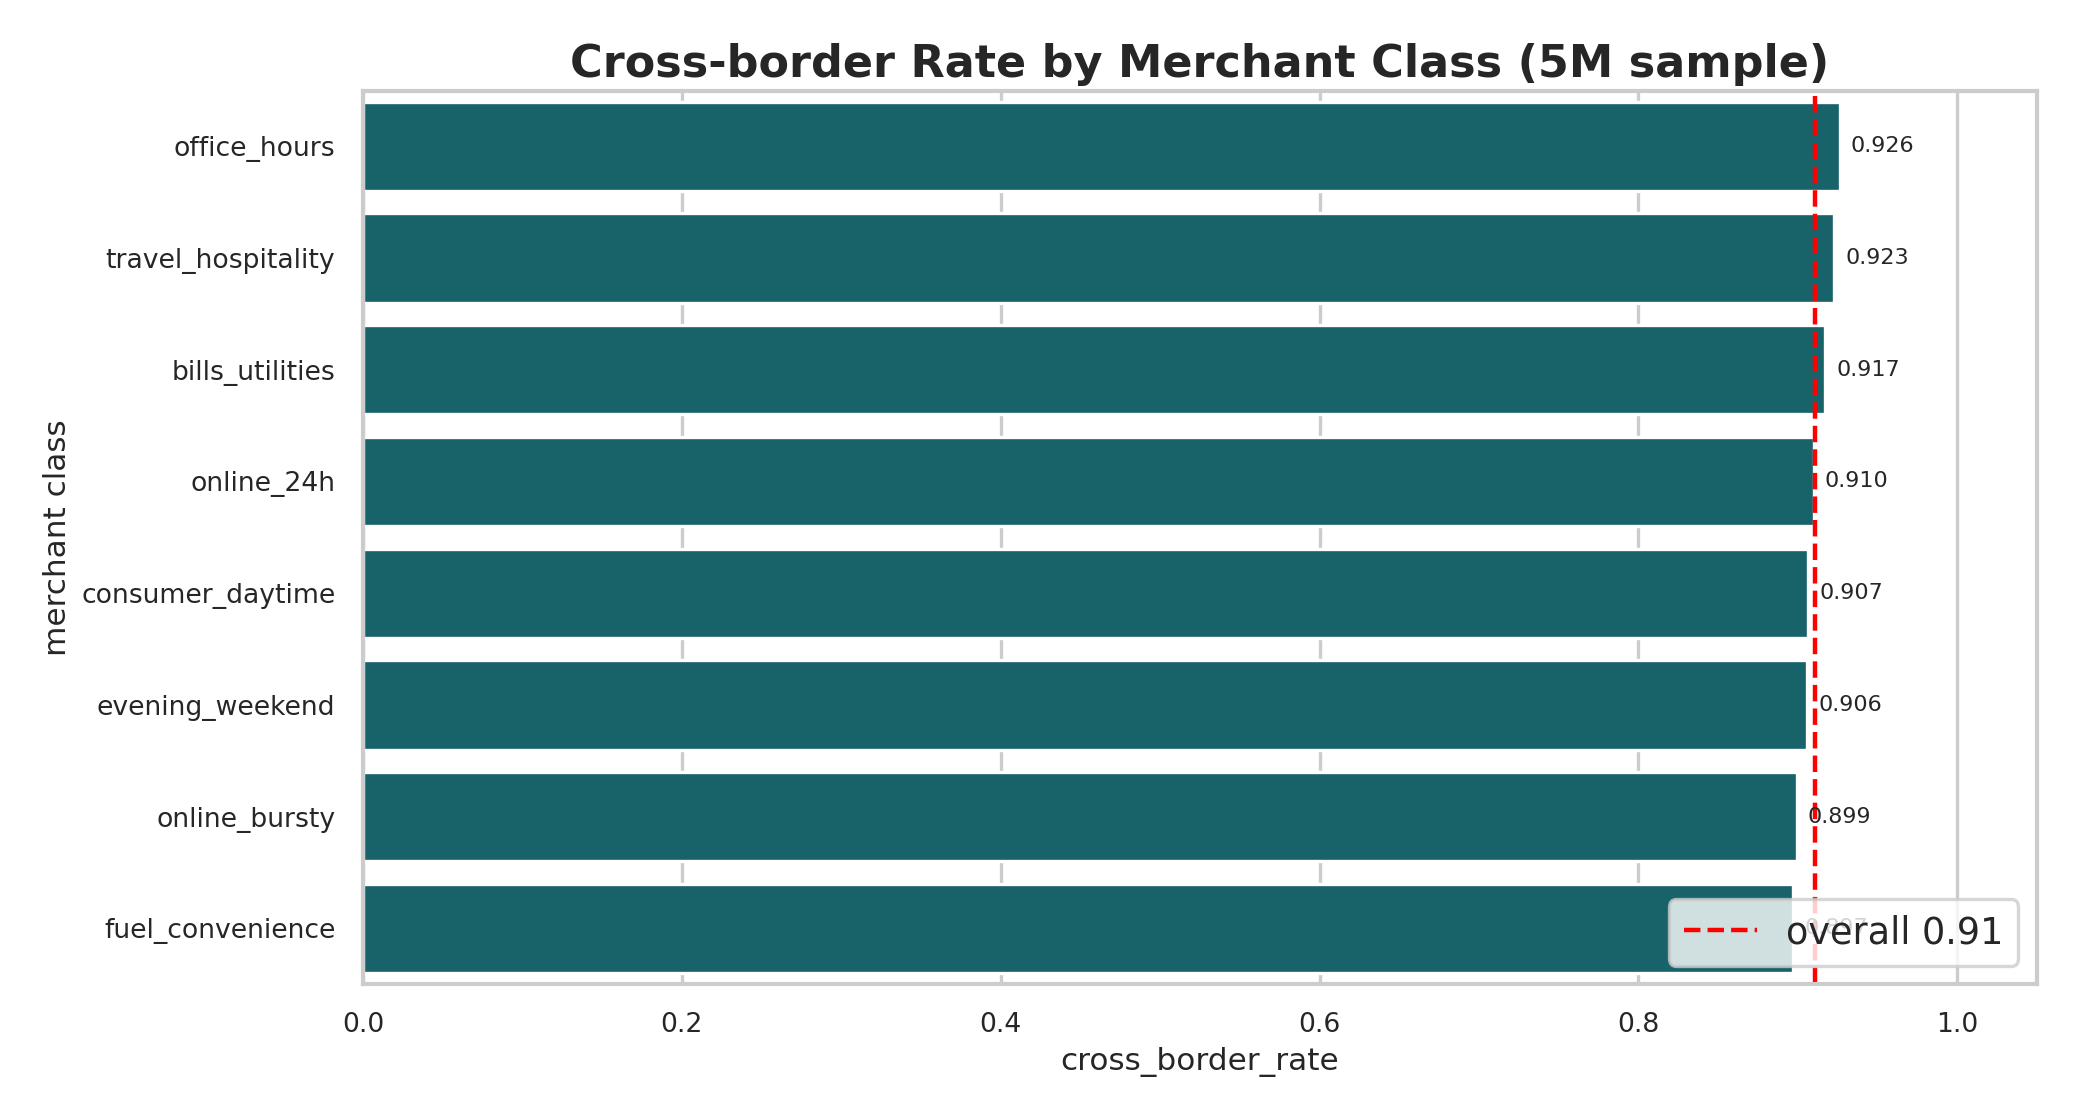
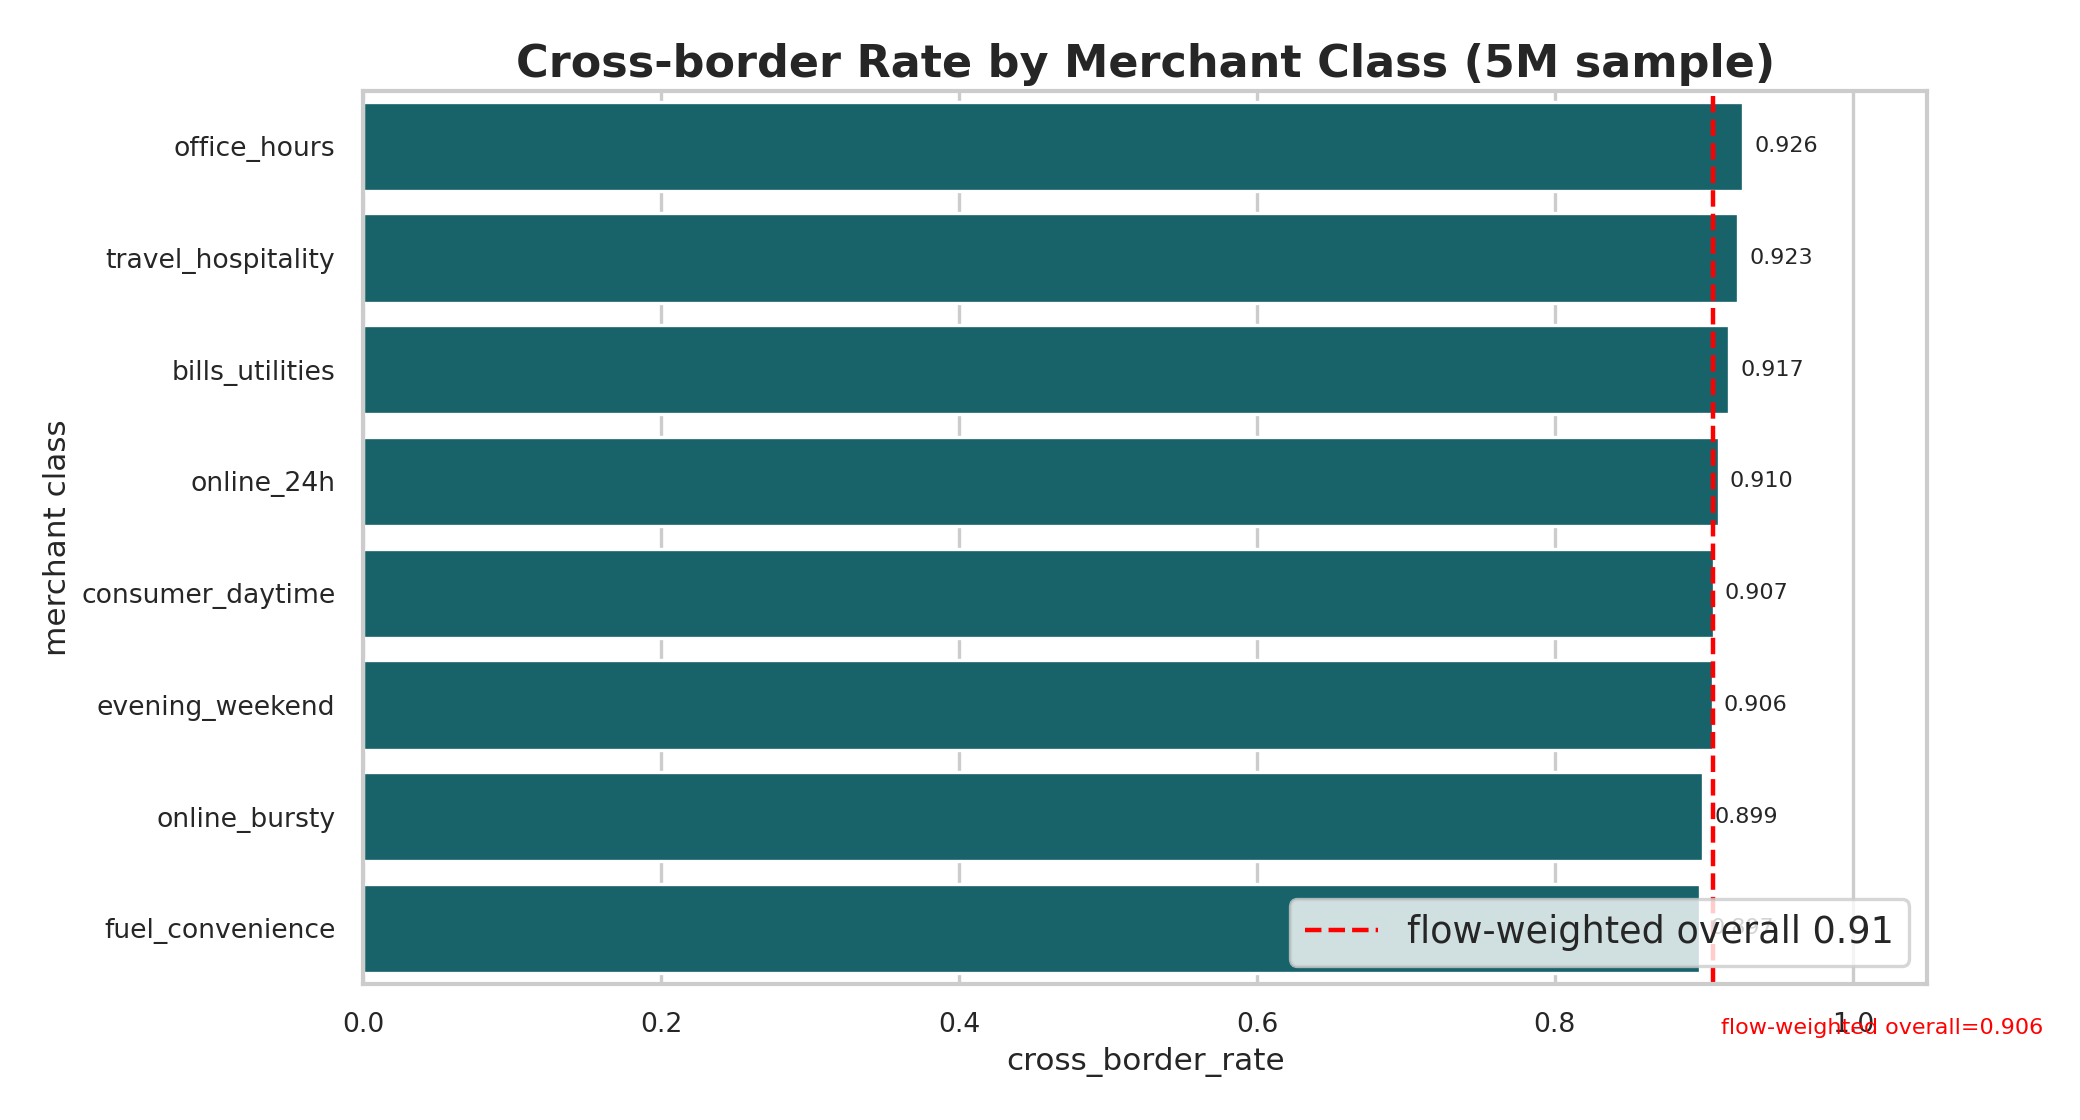
Refactor cross-border rate calculations and update report terminology for clarity

diff --git a/docs/reports/reports/eda/segment_6B/plot_segment_6B_uniform_all.py b/docs/reports/reports/eda/segment_6B/plot_segment_6B_uniform_all.py
@@ -299,7 +299,7 @@ def plot_06_lorenz(cx: duckdb.DuckDBPyConnection) -> None:
         vals = np.array([0.0])
     cum_y = np.concatenate([[0.0], np.cumsum(vals) / np.sum(vals)])
     cum_x = np.linspace(0, 1, len(cum_y))
-    gini = 1 - 2 * np.trapz(cum_y, cum_x)
+    gini = 1 - 2 * np.trapezoid(cum_y, cum_x)
 
     plt.figure(figsize=(8.5, 8.5))
     plt.plot(cum_x, cum_y, color="#3E6FB0", linewidth=3, label="Fraud per merchant")
@@ -466,21 +466,30 @@ def plot_10_cross_border(cx: duckdb.DuckDBPyConnection) -> None:
         AND m.merchant_country IS NOT NULL
         AND c.primary_demand_class IS NOT NULL
     )
-    SELECT primary_demand_class, avg(is_cross_border) AS cross_border_rate
+    SELECT primary_demand_class, count(*) AS n, avg(is_cross_border) AS cross_border_rate
     FROM joined
     GROUP BY 1
     ORDER BY cross_border_rate DESC
     """
     df = cx.execute(q).fetchdf()
-    overall = float(df["cross_border_rate"].mean())
+    overall = float((df["cross_border_rate"] * df["n"]).sum() / df["n"].sum())
 
     plt.figure(figsize=(13, 7))
     ax = sns.barplot(data=df, y="primary_demand_class", x="cross_border_rate", color="#0B6E77")
-    ax.axvline(overall, color="red", linestyle="--", linewidth=2, label=f"overall {overall:.2f}")
+    ax.axvline(overall, color="red", linestyle="--", linewidth=2, label=f"flow-weighted overall {overall:.2f}")
     ax.set_title("Cross-border Rate by Merchant Class (5M sample)", **TITLE_KW)
     ax.set_xlabel("cross_border_rate")
     ax.set_ylabel("merchant class")
     ax.set_xlim(0, 1.05)
+    ax.text(
+        overall + 0.005,
+        len(df) - 0.2,
+        f"flow-weighted overall={overall:.3f}",
+        color="red",
+        fontsize=10,
+        ha="left",
+        va="top",
+    )
     for p in ax.patches:
         w = p.get_width()
         ax.annotate(f"{w:.3f}", (w, p.get_y() + p.get_height() / 2), xytext=(5, 0), textcoords="offset points", va="center", fontsize=10)

diff --git a/docs/reports/reports/eda/segment_6B/segment_6B_published_report.md b/docs/reports/reports/eda/segment_6B/segment_6B_published_report.md
@@ -2409,7 +2409,7 @@ Why this matters:
 
 What this shows:
 1. **~5M deterministic sample:** all classes are very high cross-border (~0.90+), with narrow spread between classes.
-2. The dashed reference line is the **class-average benchmark** on the plotted sample, and it sits near the class cluster, indicating limited class differentiation.
+2. The dashed reference line is the **flow-weighted overall cross-border benchmark** on the plotted sample, and it sits near the class cluster, indicating limited class differentiation.
 3. Rank ordering exists, but spread is small relative to the shared high-cross-border baseline.
 
 Why this matters:
